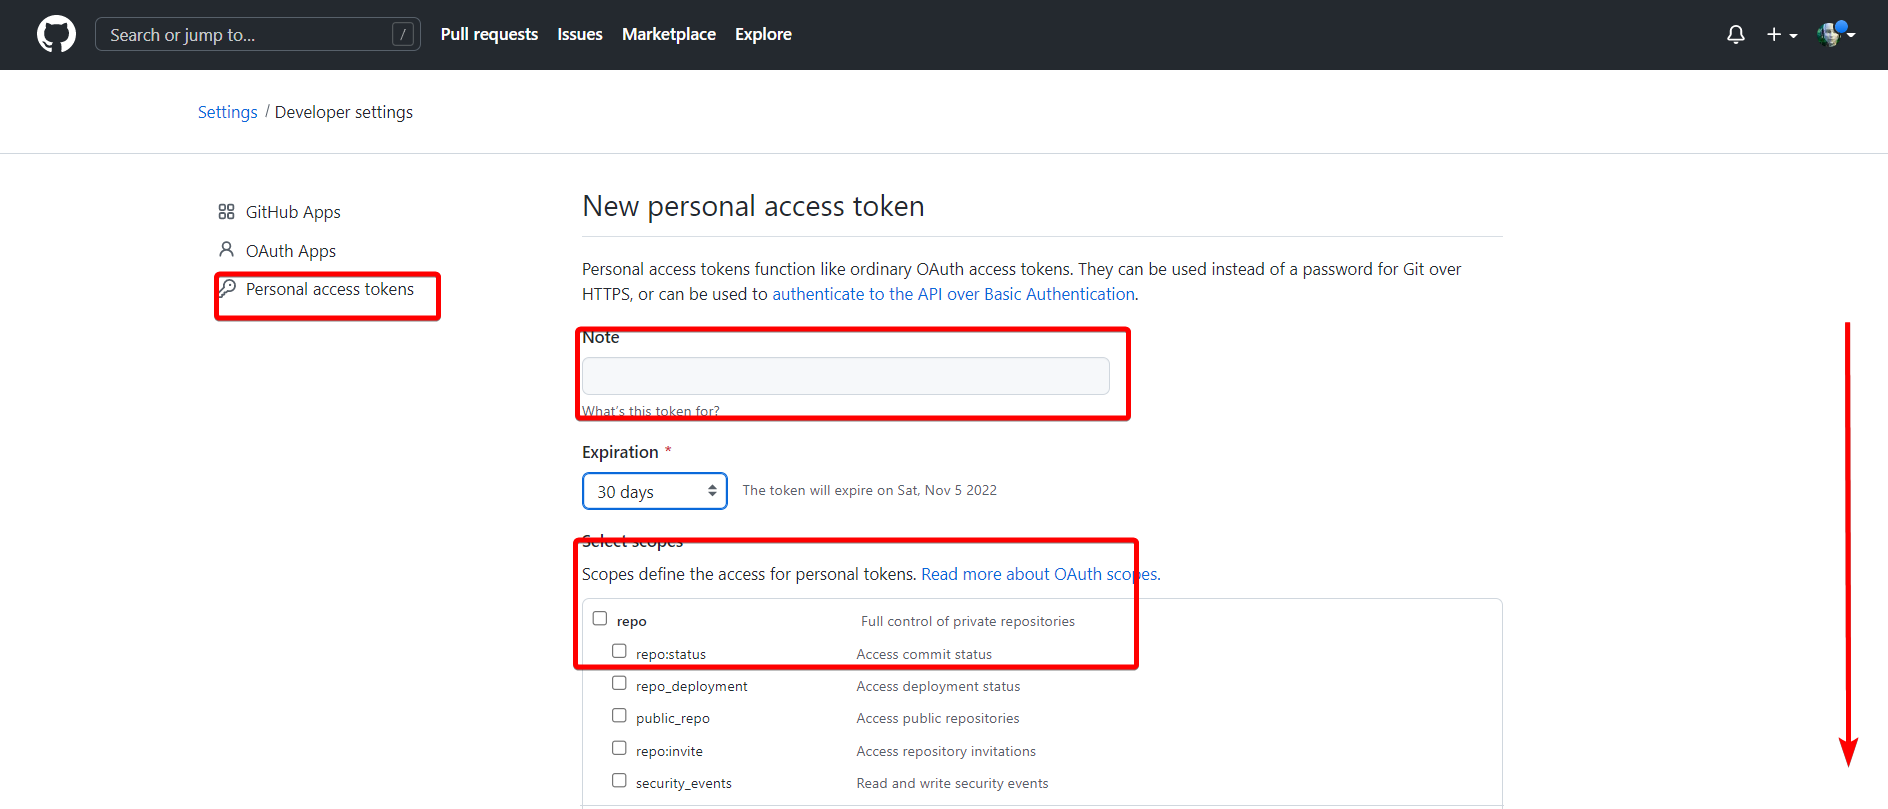
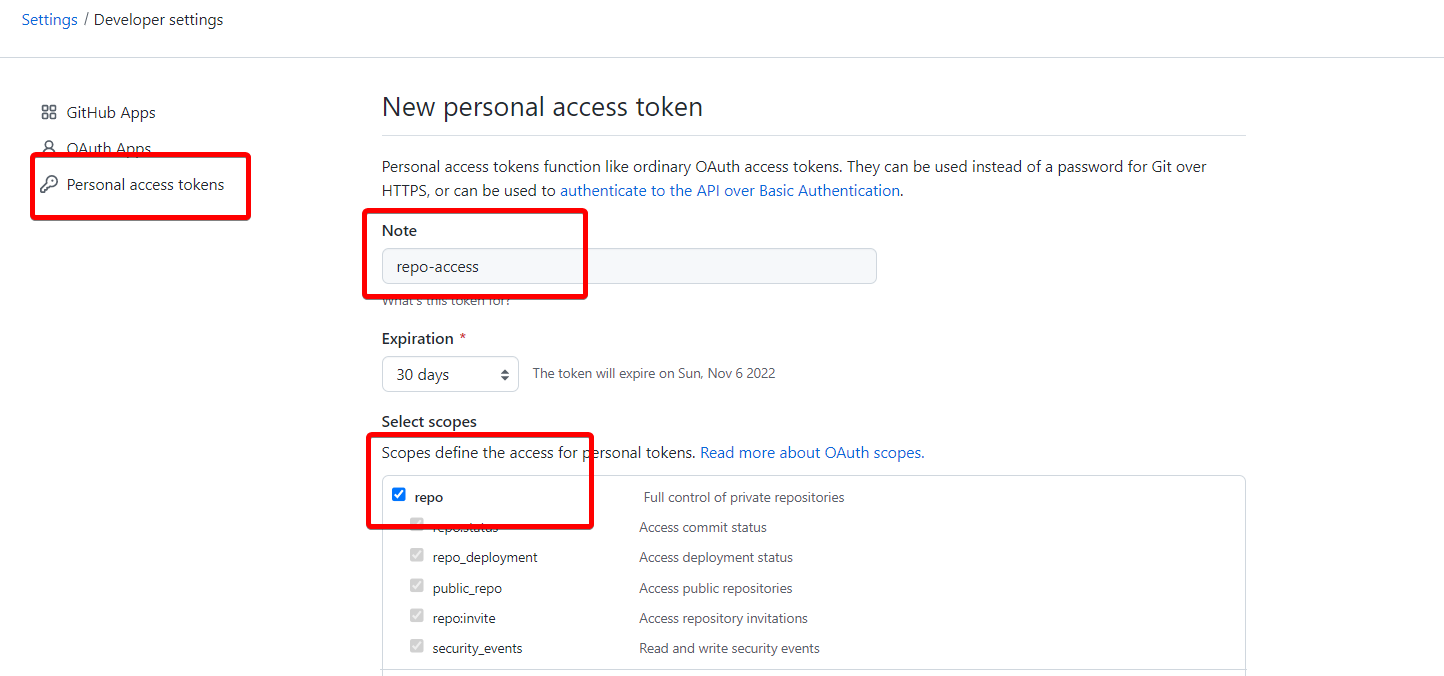
WMS ID 8481: ocw updates - indentation issues fix (#52)
* WMS ID 8481: ocw updates - added ocw-freetier

* WMS ID 8481: updated title

* WMS ID 8481: ocw fixes

* add additional steps

* additional steps

* updated images

* Update setup.md

Update fork instructions

* Update fork image

* Updated text

* Updated text

* Changed OK to Create

* Remove --single-branch

Causes problem with fetching origin on new feature branch creation

* updated images

* updated images

* manifest changes

* updated images tasks

* updated images steps

* Update integration-jenkins-liquibase.md

* Update integration-jenkins-liquibase.md

* update steps images

* updated steps images

* Update integration-jenkins-liquibase.md

* updated steps images

* updated steps images

* update images steps

* Update setup.md

* updated images steps

* fixed indentation issue

diff --git a/microservices-cicd/setup/setup.md b/microservices-cicd/setup/setup.md
@@ -27,20 +27,20 @@ Estimated Time: 25 minutes
 
    Open a browser and navigate to workshop repository [here](https://github.com/oracle/microservices-datadriven). You can also find the link below if you would like to copy-paste the link instead on your browser:
 
-   ```bash
-   <copy>
-   https://github.com/oracle/microservices-datadriven.git
-   </copy>
-   ```
+    ```bash
+    <copy>
+    https://github.com/oracle/microservices-datadriven.git
+    </copy>
+    ```
 
-   ![Main Repository](images/main-repo.png " ")
+    ![Main Repository](images/main-repo.png " ")
 
-   Since this workshop will require you to make changes to the code, you will need to fork the main repo into your own GitHub account.
+    Since this workshop will require you to make changes to the code, you will need to fork the main repo into your own GitHub account.
     
-    1. Click on the Fork button at the top right.
-    2. Select your account as the owner and keep the repository name the same.
-    3. Ensure "Copy the main branch only" is selected.
-    4. Click on Create fork and save the URL for the fork in your repository for later tasks.
+    * Click on the Fork button at the top right.
+    * Select your account as the owner and keep the repository name the same.
+    * Ensure "Copy the main branch only" is selected.
+    * Click on Create fork and save the URL for the fork in your repository for later tasks.
 
     ![Forking Main Repository](images/main-repo-fork.png " ")
     
@@ -88,25 +88,25 @@ Here are the steps for creating a new group and assigning security policies requ
 
 7. Provide a meaningful policy name and description, and add the following policies under Policy Builder by enabling Manual Editor
    
-   ```bash
-   <copy>
-   Allow group <group_name> to use cloud-shell in tenancy
-   Allow group <group_name> to manage users in tenancy
-   Allow group <group_name>to manage all-resources in tenancy
-   </copy>
-   ```
+    ```bash
+    <copy>
+    Allow group <group_name> to use cloud-shell in tenancy
+    Allow group <group_name> to manage users in tenancy
+    Allow group <group_name>to manage all-resources in tenancy
+    </copy>
+    ```
 
-   If you named your group microservicesadmin similar to the image above, you can use the following policies instead.
+    If you named your group microservicesadmin similar to the image above, you can use the following policies instead.
 
-   ```bash
-   <copy>
-   Allow group microservicesadmin to use cloud-shell in tenancy
-   Allow group microservicesadmin to manage users in tenancy
-   Allow group microservicesadmin to manage all-resources in tenancy
-   </copy>
-   ```
+    ```bash
+    <copy>
+    Allow group microservicesadmin to use cloud-shell in tenancy
+    Allow group microservicesadmin to manage users in tenancy
+    Allow group microservicesadmin to manage all-resources in tenancy
+    </copy>
+    ```
    
-   ![Add Policy Statements](images/policy-statements.png " ")
+    ![Add Policy Statements](images/policy-statements.png " ")
 
 ## Task 5: Check Your Tenancy Service Limits
 
@@ -166,13 +166,13 @@ Cloud Shell is a small virtual machine running a "bash" shell which you access t
 
 1. With a working fork of the lab repository under your account, clone the forked repository by running the below command (make sure you completed Task 1 and created a fork).
 
-   ```bash
-   git clone <repository-web-url>  
-   ```
+    ```bash
+    git clone <repository-web-url>  
+    ```
 
-   > **Note:** Replace <repository-web-url> above with your fork's web URL. The image below shows where to copy the web URL from. Keep this URL in your notes.
+    > **Note:** Replace <repository-web-url> above with your fork's web URL. The image below shows where to copy the web URL from. Keep this URL in your notes.
 
-   ![Forked Repository URL](images/fork-url.png " ")
+    ![Forked Repository URL](images/fork-url.png " ")
 
      You should now see the directory `microservices-datadriven` in the directory that you created.
 

diff --git a/microservices-cicd/int-jenkins-liquibase/integration-jenkins-liquibase.md b/microservices-cicd/int-jenkins-liquibase/integration-jenkins-liquibase.md
@@ -47,7 +47,7 @@ Estimated Time:  10 minutes
 
    ![GitHub Repo PAT](images/repo-gen-pat.png " ")
 
-   > **Note:** Do not select `repo` option for scope.
+   > **Note:** Do select `repo` option for scope.
 
 4. Personal access tokens function like ordinary OAuth access tokens. They can be used instead of a password for Git over HTTPS. In creating a new personal access token, you can add a Note to help you remember what the token is for. For example, you can set:
 
@@ -173,7 +173,7 @@ Estimated Time:  10 minutes
 
      * Kind: `GitHub App`
      * ID: `GitHubAppDemo`
-     * App ID: < App ID > (Recorded above in Task 2: Create the GitHub App )
+     * App ID: < App ID > (Enter App ID recorded above in the Task 3: Create the GitHub App )
      * Key: < Contents of converted-github-app.pem created above >
 
 3. Click `Test Connection` which should be successful.

diff --git a/microservices-cicd/walkthrough-jenkins-liquibase/walkthrough-jenkins-liquibase.md b/microservices-cicd/walkthrough-jenkins-liquibase/walkthrough-jenkins-liquibase.md
@@ -177,6 +177,8 @@ The DBA/Developer will work on the issue in the newly created isolated schema. D
 
     ```bash
     <copy>
+    git config --global user.email "my_email@exmaple.com"
+    git config --global user.name "my_name"
     git add .
     git commit -m "Added LAST_UPDATED Column to Inventory Table"
     git push
